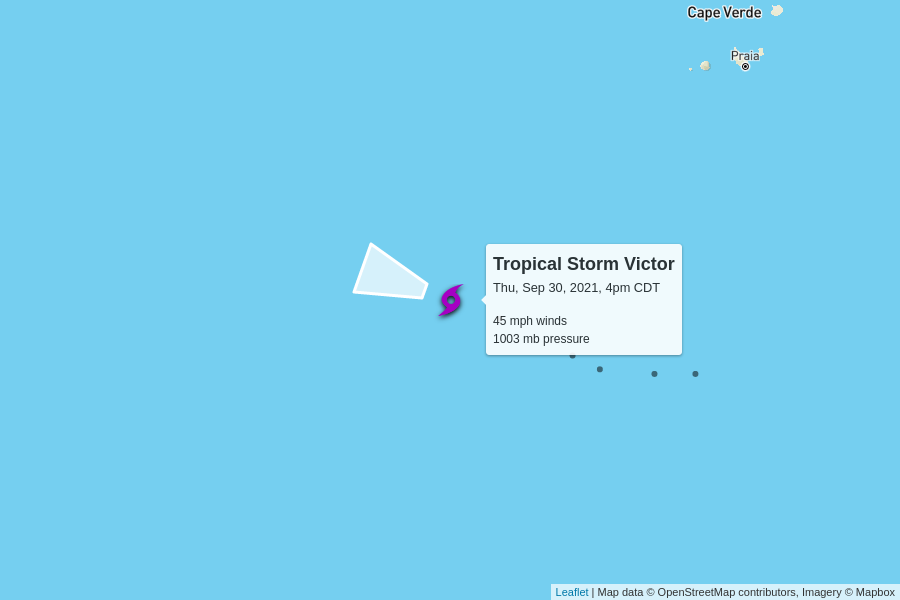
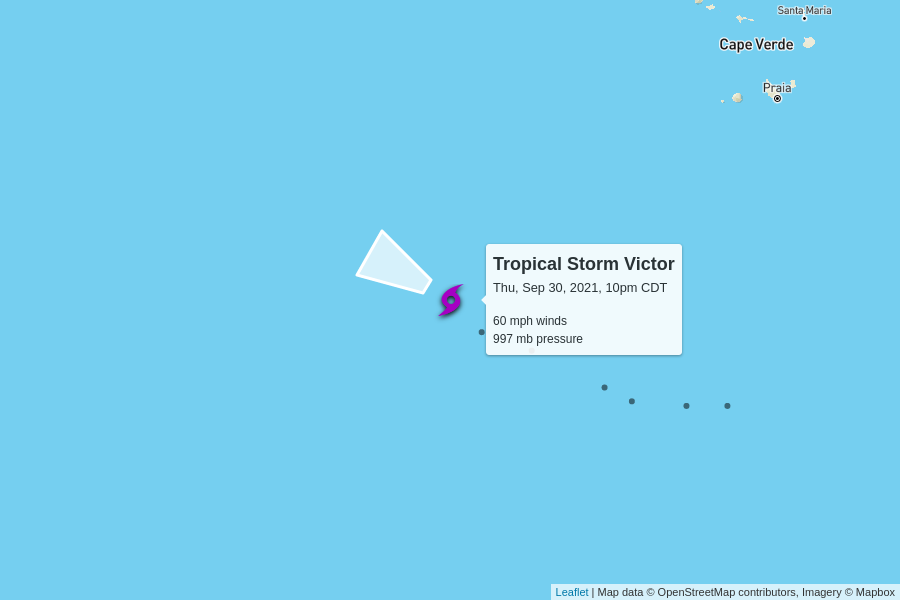
automatic update

diff --git a/docs/index.html b/docs/index.html
@@ -100,7 +100,7 @@
         <td colspan="6" class="storm category-4" >
           <h2>
             Hurricane Sam - Category 4
-            <p class="updated">last updated <span data-time>2021-10-01T00:00:00.000Z</span></p>
+            <p class="updated">last updated <span data-time>2021-10-01T03:00:00.000Z</span></p>
           </h2>
         </td>
       </tr>
@@ -118,9 +118,9 @@
         <td>145 mph</td>
         <td>938 mb</td>
         <td>
-          14 mph to the north-northwest
+          16 mph to the north-northwest
           <br/>
-          <span style="display: inline-block; font-size: 1.5em; transform: rotate(340deg);">↑</span>
+          <span style="display: inline-block; font-size: 1.5em; transform: rotate(345deg);">↑</span>
         </td>
         <td><a href="https://raw.githubusercontent.com/mgwalker/atlantic-hurricanes/main/data/csv/AL182021.csv">AL182021.csv</a></td>
         <td><a href="https://www.nhc.noaa.gov/archive/2021/SAM.shtml?">NHC advisories</a></td>
@@ -144,7 +144,7 @@
         <td colspan="6" class="storm category-0" >
           <h2>
             Tropical Storm Victor
-            <p class="updated">last updated <span data-time>2021-09-30T21:00:00.000Z</span></p>
+            <p class="updated">last updated <span data-time>2021-10-01T03:00:00.000Z</span></p>
           </h2>
         </td>
       </tr>
@@ -159,12 +159,12 @@
       </tr>
       <tr>
         <td class="spacer"></td>
-        <td>45 mph</td>
-        <td>1003 mb</td>
+        <td>60 mph</td>
+        <td>997 mb</td>
         <td>
-          14 mph to the west-northwest
+          12 mph to the west-northwest
           <br/>
-          <span style="display: inline-block; font-size: 1.5em; transform: rotate(290deg);">↑</span>
+          <span style="display: inline-block; font-size: 1.5em; transform: rotate(300deg);">↑</span>
         </td>
         <td><a href="https://raw.githubusercontent.com/mgwalker/atlantic-hurricanes/main/data/csv/AL202021.csv">AL202021.csv</a></td>
         <td><a href="https://www.nhc.noaa.gov/archive/2021/VICTOR.shtml?">NHC advisories</a></td>
